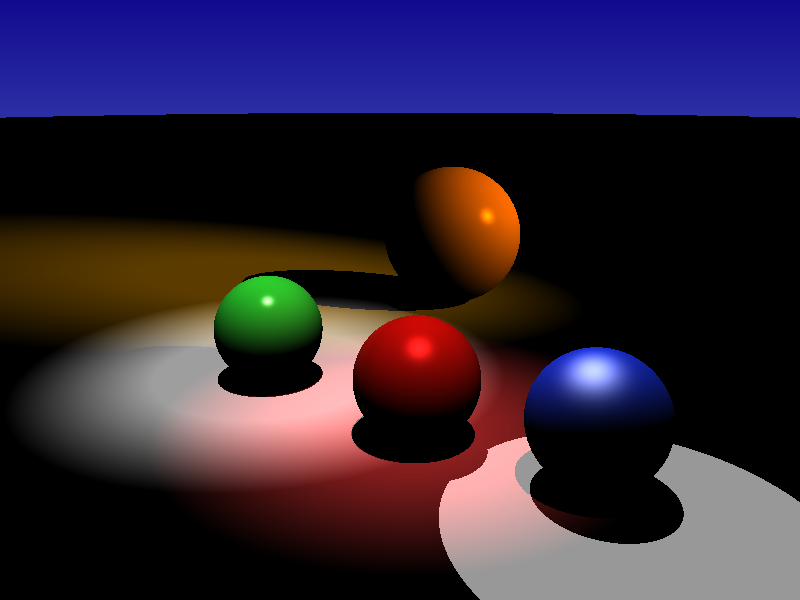
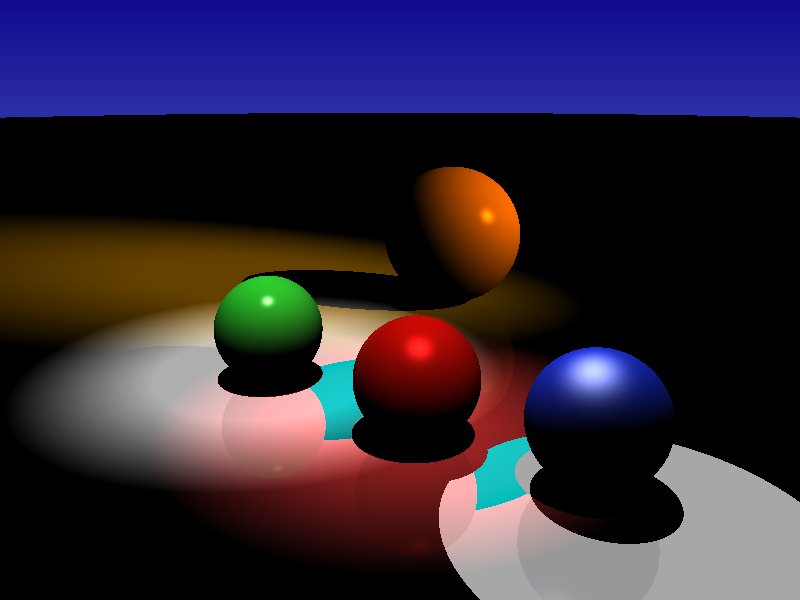
Reflexion working

Changed region(s): [[0.375, 0.6, 0.4688, 0.75], [0.5938, 0.72, 0.6875, 0.87], [0.5938, 0.63, 0.625, 0.66]]

diff --git a/include/integrator.hpp b/include/integrator.hpp
@@ -11,7 +11,7 @@ class Integrator
 public:
     std::string type;
     Integrator(std::string type) {}
-    virtual Color24 Li(Ray &ray, const Scene *scene, Color24 bkg_color) const = 0;
+    virtual Color24 Li(Ray &ray, const Scene *scene, Color24 bkg_color, int depth) const = 0;
     virtual ~Integrator() = default;
 
 private:
@@ -25,7 +25,7 @@ public:
         this->type = type;
     }
 
-    Color24 Li(Ray &ray, const Scene *scene, Color24 bkg_color) const
+    Color24 Li(Ray &ray, const Scene *scene, Color24 bkg_color, int depth) const
     {
 
         Color24 color_ = bkg_color;
@@ -53,7 +53,7 @@ public:
         this->type = type;
     }
 
-    Color24 Li(Ray &ray, const Scene *scene, Color24 bkg_color) const
+    Color24 Li(Ray &ray, const Scene *scene, Color24 bkg_color, int depth) const
     {
 
         Color24 color_ = bkg_color;
@@ -81,13 +81,18 @@ public:
 class BlinnPhongIntegrator : public Integrator
 {
 public:
-    BlinnPhongIntegrator(std::string type) : Integrator(type)
+
+    int max_depth;
+
+    BlinnPhongIntegrator(std::string type, int depth) : Integrator(type)
     {
         this->type = type;
+        this->max_depth = depth;
     }
 
-    Color24 Li(Ray &ray, const Scene *scene, Color24 bkg_color) const
+    Color24 Li(Ray &ray, const Scene *scene, Color24 bkg_color, int depth) const
     {
+        //std::cout << depth << std::endl;
 
         Color24 color_ = bkg_color;
         auto obj_list_ = scene->obj_list;
@@ -102,16 +107,17 @@ public:
                 Vec c;
                 Vec wi;
                 BlinnMaterial *bm = dynamic_cast<BlinnMaterial *>(sf.primitive->get_material());
+                Vec n = normalize(sf.n);
                 for (int i = 0; i < lights.size(); i++)
                 {
 
                     Vec l = lights[i]->sample_Li(sf, ray.getOrigin(), &wi);
                     Ray shadow_ray;
-                    if(lights[i]->type == "point"){
+                    if(lights[i]->type == "directional"){
+                        shadow_ray = Ray(sf.p, l);
+                    } else {
                         float dis = distance(sf.p, lights[i]->from);
                         shadow_ray = Ray(sf.p, l, 0.0, dis);
-                    } else {
-                        shadow_ray = Ray(sf.p, l);
                     }
 
                     bool hittou = false;
@@ -131,7 +137,6 @@ public:
                     if(!hittou){
                         Vec v = ray.getOrigin() - sf.p;
                         v = normalize(v);
-                        Vec n = normalize(sf.n);
 
                         Vec h = (v + l) / (magnitude(v + l)); // * magnitude(dir_)));
 
@@ -165,8 +170,15 @@ public:
                 {
                     color_.v3 = 1.0;
                 }
+                                
+                if(depth < max_depth){
+                    Ray reflected_ray = Ray(sf.p, ray.getDirection() - n*(2*(dot(ray.getDirection(),n))));
+                    color_ = color_ + bm->km() * Li(reflected_ray, scene, color_, depth+1);
+                }
+                
             }
         }
+        //color_.print();
         return color_;
     }
     virtual ~BlinnPhongIntegrator() = default;

diff --git a/include/api.hpp b/include/api.hpp
@@ -205,6 +205,8 @@ void Api::OBJECTS(std::vector<std::pair<Paramset<std::string, std::string>, Para
             Vec ka(ambient);
             Vec m(mirror);
 
+            //m.print();
+
             BlinnMaterial * fl_ma = new BlinnMaterial(kd, ks, ka, name, m, std::stof(glossiness)); 
             geo_pri->set_material(fl_ma);
         }
@@ -223,7 +225,8 @@ void Api::INTEGRATOR(Paramset<std::string, std::string> ps){
     } else if (type == "normal_flat") {
         integrator = new NormalIntegrator(type);
     } else if (type == "blinn_phong") {
-        integrator = new BlinnPhongIntegrator(type);
+        int depth =  std::stoi(ps.find("depth"));
+        integrator = new BlinnPhongIntegrator(type, depth);
     }
 }
 
@@ -306,7 +309,7 @@ void Api::render(){
                 color_ = background->sample(float(i)/float(w), float(j)/float(h));
             }
             
-            Color24 c = integrator->Li(ray, scene, color_);
+            Color24 c = integrator->Li(ray, scene, color_, 0);
             film->add(i, j, c);
         }
     }

diff --git a/include/blinnmaterial.hpp b/include/blinnmaterial.hpp
@@ -22,6 +22,7 @@ class BlinnMaterial : public Material{
     Color24 kd();
     Color24 ks();
     Color24 ka();
+    Color24 km();
 };
 
 BlinnMaterial::BlinnMaterial(Vec kd, Vec ks, Vec ka, std::string name, Vec mirror, float glossiness){
@@ -47,6 +48,10 @@ Color24 BlinnMaterial::ks(){
 
 Color24 BlinnMaterial::ka(){
     return color_ka;
+}
+
+Color24 BlinnMaterial::km(){
+    return mirror;
 }
 
 #endif
